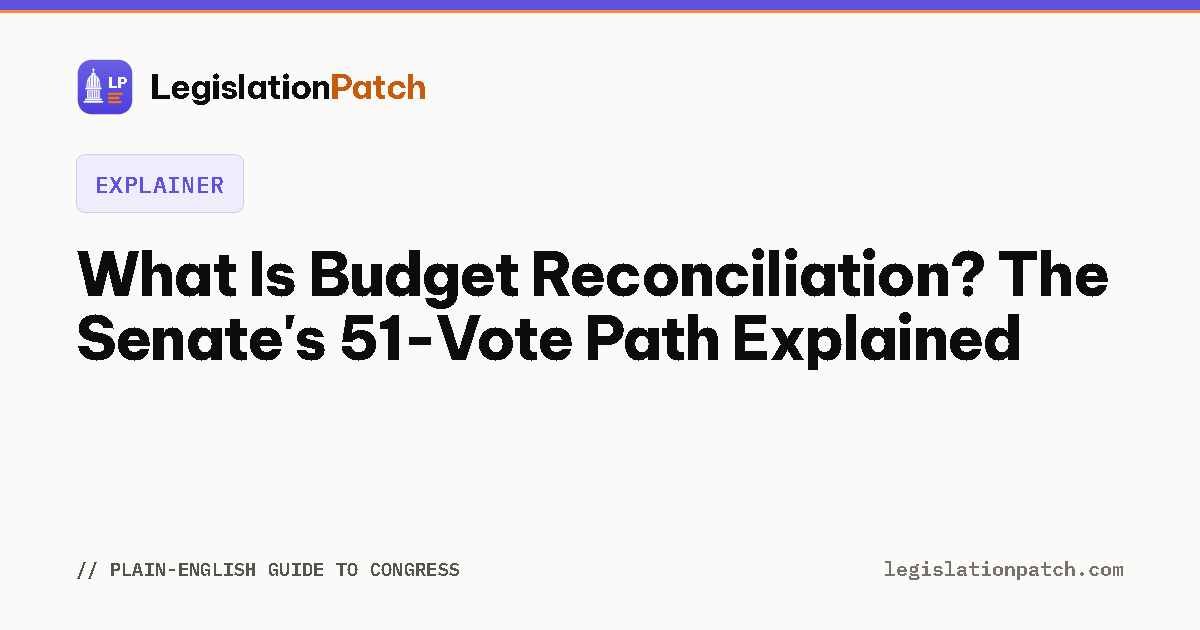
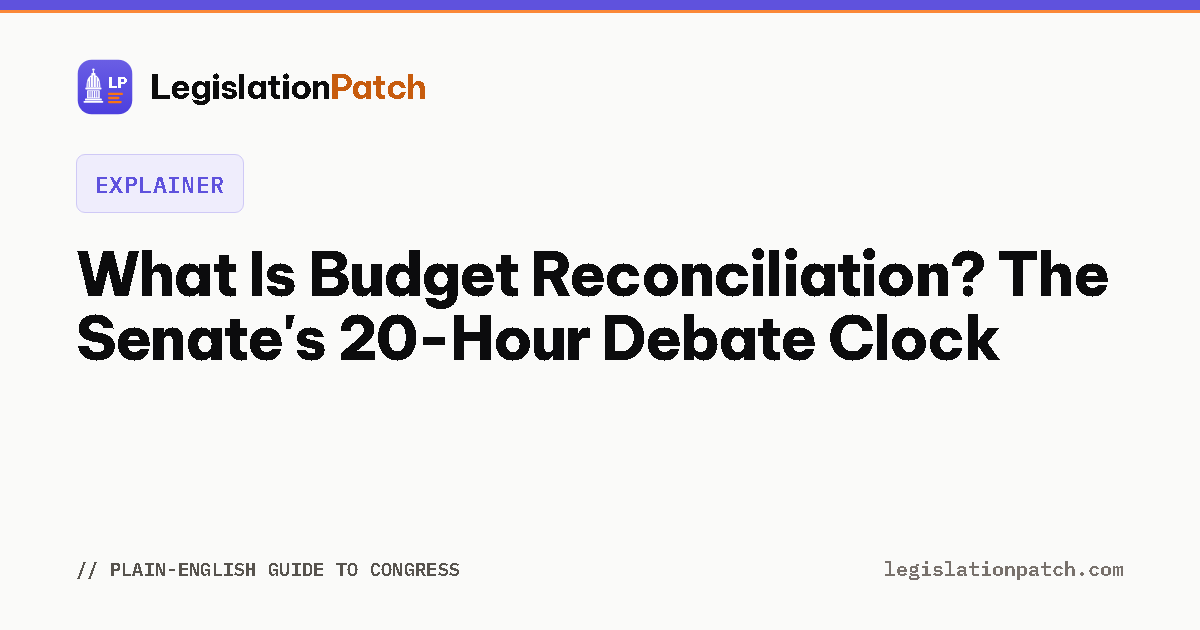
Refresh explainer: budget-reconciliation (64-claim ledger, 7 sources, 6 passes)

Changed region(s): [[0.2775, 0.4825, 0.8633, 0.573]]

diff --git a/articles/budget-reconciliation.html b/articles/budget-reconciliation.html
@@ -4,15 +4,15 @@
   <meta charset="UTF-8" />
   <meta http-equiv="Content-Security-Policy" content="default-src 'self'; script-src 'self' 'unsafe-inline'; style-src 'self' 'unsafe-inline' https://fonts.googleapis.com; font-src https://fonts.gstatic.com; img-src 'self' data: https://bioguide.congress.gov https://clerk.house.gov; connect-src 'self' https://ipapi.co https://api.zippopotam.us; object-src 'none'; base-uri 'self'; form-action 'self'; frame-src 'none'">
   <meta name="referrer" content="no-referrer"><meta name="viewport" content="width=device-width, initial-scale=1.0, viewport-fit=cover" />
-  <title>What Is Budget Reconciliation? The Senate's 51-Vote Path Explained</title>
-  <meta name="description" content="Budget reconciliation allows the Senate to pass certain fiscal legislation with 51 votes instead of 60, bypassing the filibuster. Here's how it works, what it can contain, and its key limits." />
+  <title>What Is Budget Reconciliation? The Senate's 20-Hour Debate Clock</title>
+  <meta name="description" content="Budget reconciliation limits Senate debate to 20 hours, so cloture is never needed to reach a final vote. How the directives work, what the Byrd rule bars, and which laws have used it." />
   <link rel="canonical" href="https://legislationpatch.com/articles/budget-reconciliation.html" />
-  <meta property="og:type" content="article" /><meta property="og:url" content="https://legislationpatch.com/articles/budget-reconciliation.html" /><meta property="og:title" content="What Is Budget Reconciliation? The 51-Vote Path Explained" /><meta property="og:description" content="Budget reconciliation lets the Senate pass fiscal legislation with 51 votes instead of 60, bypassing the filibuster. Here's how it works and what its limits are." /><meta property="og:image" content="https://legislationpatch.com/og/articles/budget-reconciliation.png" /><meta name="twitter:card" content="summary_large_image" /><meta name="twitter:image" content="https://legislationpatch.com/og/articles/budget-reconciliation.png" />
+  <meta property="og:type" content="article" /><meta property="og:url" content="https://legislationpatch.com/articles/budget-reconciliation.html" /><meta property="og:title" content="What Is Budget Reconciliation? The Senate's 20-Hour Debate Clock" /><meta property="og:description" content="Reconciliation limits Senate debate to 20 hours, so cloture is never needed. How the directives work, what the Byrd rule bars, and which laws have used it." /><meta property="og:image" content="https://legislationpatch.com/og/articles/budget-reconciliation.png" /><meta name="twitter:card" content="summary_large_image" /><meta name="twitter:image" content="https://legislationpatch.com/og/articles/budget-reconciliation.png" />
   <script type="application/ld+json">
   {
     "@context": "https://schema.org",
     "@type": "Article",
-    "headline": "What Is Budget Reconciliation? The Senate's 51-Vote Path Explained",
+    "headline": "What Is Budget Reconciliation? The Senate's 20-Hour Debate Clock",
     "author": {
       "@id": "https://legislationpatch.com/author/james-shearn#person"
     },
@@ -20,7 +20,7 @@
       "@id": "https://legislationpatch.com/#organization"
     },
     "datePublished": "2026-05-08",
-    "dateModified": "2026-07-17",
+    "dateModified": "2026-09-01",
     "url": "https://legislationpatch.com/articles/budget-reconciliation.html",
     "image": "https://legislationpatch.com/og/articles/budget-reconciliation.png",
     "mainEntityOfPage": {
@@ -57,18 +57,37 @@
     "citation": [
       {
         "@type": "CreativeWork",
-        "name": "CRS: The Reconciliation Process — Frequently Asked Questions",
-        "url": "https://www.congress.gov/crs-product/R48444"
+        "name": "CRS Report R48444 — The Reconciliation Process: Frequently Asked Questions",
+        "url": "https://www.everycrsreport.com/reports/R48444.html"
       },
       {
         "@type": "CreativeWork",
-        "name": "2 U.S.C. 644 — The Byrd Rule",
+        "name": "CRS Report RL30862 — The Budget Reconciliation Process: The Senate's Byrd Rule",
+        "url": "https://www.everycrsreport.com/reports/RL30862.html"
+      },
+      {
+        "@type": "CreativeWork",
+        "name": "2 U.S.C. 641 — Reconciliation",
+        "url": "https://uscode.house.gov/view.xhtml?req=granuleid:USC-prelim-title2-section641&num=0&edition=prelim"
+      },
+      {
+        "@type": "CreativeWork",
+        "name": "2 U.S.C. 644 — Extraneous matter in reconciliation legislation",
         "url": "https://uscode.house.gov/view.xhtml?req=granuleid:USC-prelim-title2-section644&num=0&edition=prelim"
       },
       {
         "@type": "CreativeWork",
-        "name": "CBO: Reconciliation",
-        "url": "https://www.cbo.gov/topics/budget/reconciliation"
+        "name": "CRS Report RL30360 — Filibusters and Cloture in the Senate",
+        "url": "https://www.everycrsreport.com/reports/RL30360.html"
+      },
+      {
+        "@type": "CreativeWork",
+        "name": "The Constitution of the United States, official transcript (National Archives) — Article I, Section 3",
+        "url": "https://www.archives.gov/founding-docs/constitution-transcript"
+      },
+      {
+        "@type": "CreativeWork",
+        "name": "Congress.gov API record — complete public-law list for the 119th Congress (fetched 2026-08-31)"
       }
     ]
   }
@@ -88,32 +107,55 @@
       <nav class="article-breadcrumb" aria-label="Breadcrumb"><a href="../index.html">Home</a><span class="sep">/</span><a href="index.html">Articles</a><span class="sep">/</span>Budget Reconciliation</nav>
 
       <div class="topic-hub-link" style="margin:-4px 0 16px;font-size:0.85rem;opacity:0.85">Part of the topic hub: <a href="/topics/government-spending/">Government Spending &amp; the Budget, Explained</a></div>
-      <h1 class="article-title">What Is Budget Reconciliation? The Senate's 51-Vote Path Explained</h1>
-      <div class="article-meta"><span>By <a href="https://legislationpatch.com/author/james-shearn" rel="author">James Shearn</a>, Editor</span><span>Published May 2026</span><span>Updated July 2026</span></div>
+      <h1 class="article-title">What Is Budget Reconciliation? The Senate's 20-Hour Debate Clock</h1>
+      <div class="article-meta"><span>By <a href="https://legislationpatch.com/author/james-shearn" rel="author">James Shearn</a>, Editor</span><span>Published May 2026</span><span>Updated September 2026</span></div>
       <div class="article-body">
-        <p>Budget reconciliation is a special congressional procedure that allows the Senate to pass certain fiscal legislation — bills affecting federal spending, revenues, or the debt limit — with a simple majority of 51 votes rather than the 60 votes normally needed to overcome a filibuster. It was created by the Congressional Budget Act of 1974 and has since been the vehicle for major tax, health-care, and deficit-reduction laws — the specific examples are listed at the end of this article.</p>
-        <p>It's not a loophole or a trick. It is a procedural mechanism that makes budget-related legislation easier to pass. It also has limits, and understanding them explains why not every policy can move through reconciliation.</p>
+        <p>Budget reconciliation is an expedited procedure for legislation that changes spending, revenue or the debt limit, made available under Section 310 of the Congressional Budget Act of 1974. The Congressional Research Service identifies what makes it different: "A distinctive feature of reconciliation is that debate time in the Senate is limited, which means cloture (and its requisite three-fifths majority vote) is not necessary to reach a vote on final passage." That is the whole mechanism — not a lower vote threshold, but a debate clock that runs out on its own, so there is nothing for a <a href="senate-filibuster.html">filibuster</a> to prolong and no <a href="cloture-60-vote.html">cloture vote</a> to win.</p>
+        <p>Passage itself takes what ordinary passage takes. As CRS puts it, "The votes of only a majority of Senators present and voting are needed to pass a bill on the floor," and under Article I of the Constitution the Vice President "shall be President of the Senate, but shall have no Vote, unless they be equally divided."</p>
+        <p>It is used often and for large things. CRS records that reconciliation "has been used to reform entitlement programs (1996 and 2025), create new ones (2010), balance the federal budget (1997), and enact broad-based tax reform (2001, 2003, 2017, and 2025)."</p>
         <h2>How Reconciliation Works</h2>
-        <p>Reconciliation begins with the budget resolution — the annual plan Congress passes (or is supposed to pass) setting top-line spending and revenue targets. The budget resolution can include "reconciliation instructions" — directives to one or more committees to produce legislation that changes spending or revenues by a specified amount within a specified time frame.</p>
-        <p>Once the relevant committees produce that legislation, it's packaged into a reconciliation bill and brought to the Senate floor. On the Senate floor, reconciliation bills cannot be filibustered. Debate is limited to 20 hours total (10 for each chamber in conference, or 20 for the Senate on a House-passed bill). After debate, senators can offer unlimited amendments during a process called "vote-a-rama" — hours or days of rapid amendment votes on the Senate floor — before final passage.</p>
-        <p>Because a simple majority (51 votes, or 50 plus the Vice President) is all that's required, reconciliation is the primary vehicle for major fiscal legislation when one party doesn't control 60 Senate seats.</p>
-        <h2>The Byrd Rule: What Reconciliation Can't Contain</h2>
-        <p>Named for former Senator Robert Byrd of West Virginia, the Byrd Rule (2 U.S.C. 644) prohibits including provisions in reconciliation bills that are "extraneous" to the budgetary purpose. A provision is extraneous — and can be stripped out — if it meets any of six criteria, the most commonly invoked being:</p>
-        <p><strong>The provision has no budgetary effect, or its budgetary effect is merely incidental to its non-budgetary purpose.</strong> This is the key test. A policy change that happens to save $10 million but whose primary effect is regulatory can be ruled extraneous. A policy change that saves $10 billion through a direct change to spending formulas is fine.</p>
-        <p><strong>The provision changes Social Security.</strong> The Byrd Rule categorically bars reconciliation from touching Social Security, the OASDI trust funds, or the Social Security Act — a protection written into the 1985 Gramm-Rudman-Hollings Act.</p>
-        <p>Any senator can raise a "point of order" against a provision they believe violates the Byrd Rule. The Senate Parliamentarian — an unelected procedural expert who advises the presiding officer — issues an opinion on whether the point of order should be sustained. If sustained, the provision is removed unless 60 senators vote to waive the rule.</p>
-        <p>The Parliamentarian's rulings on the Byrd Rule have significant consequences. In 2021, the Senate Parliamentarian ruled that a federal minimum wage increase violated the Byrd Rule, removing it from a reconciliation bill despite majority Senate support. The ruling forced the majority to find other vehicles — which they ultimately couldn't.</p>
-        <h2>One Reconciliation Bill Per Budget Resolution</h2>
-        <p>The budget resolution can instruct committees to produce reconciliation legislation, but the traditional interpretation is that only one reconciliation bill is permitted per budget resolution. A Congress that wants to use reconciliation twice in a year must pass two separate budget resolutions, each with its own reconciliation instructions. In practice, this limits how often reconciliation can be used — passing a budget resolution itself requires floor time and agreement, and the political capital spent on one reconciliation bill often precludes a second.</p>
+        <p>It begins with the budget resolution. "Reconciliation directives (also known as reconciliation instructions) are a necessary step if Congress seeks to exercise the expedited procedures enumerated in the Budget Act," CRS writes, and there are three kinds: "to change laws providing for spending, to change laws providing for revenues, and to change the public debt limit." CRS notes one wrinkle: "A fourth instruction—to change the deficit—is interpreted as a combination of both revenue and spending instructions."</p>
+        <p>The statute sets out what happens next. Under 2 U.S.C. 641(b), where more than one committee is instructed, each "shall promptly make such determination and recommendations and submit such recommendations to the Committee on the Budget of its House, which, upon receiving all such recommendations, shall report to its House reconciliation legislation carrying out all such recommendations without any substantive revision."</p>
+        <h2>On the Floor</h2>
+        <p>The Senate debate limit is in the statute itself. 2 U.S.C. 641(e)(2) provides that "Debate in the Senate on any reconciliation bill reported under subsection (b), and all amendments thereto and debatable motions and appeals in connection therewith, shall be limited to not more than 20 hours." There is no House figure in that provision and no per-chamber split. Inside the 20 hours, CRS records two sub-limits: "Debate time on any first-degree amendment is limited to no more than two hours equally divided between the mover and the manager of the reconciliation bill. Debate on any second-degree amendment, debatable motion, or appeal is limited to one hour." They are sub-limits rather than additions: "Time spent in a quorum call during consideration of an amendment counts against this limit. All time spent in discussion on the floor during this period (on the reconciliation bill or on any amendment, motion, or appeal) counts toward the 20-hour debate limit. Time spent conducting votes does not." A separate clock governs resolving differences with the House: "In the Senate, Section 305(c) limits debate on a conference report to 10 hours, equally divided, and debate on any motion or appeal is limited to one hour."</p>
+        <p>The House does it differently: "In the House, consideration is typically structured by a special rule reported from the <a href="house-rules-committee.html">House Rules Committee</a>, which sets the terms for debate and may permit specified amendments to be offered from the floor."</p>
+        <p>Amendments in the Senate are constrained too. "Amendments to reconciliation legislation must be germane," because "Section 310(e) of the Budget Act prohibits consideration in the Senate of non-germane amendments to reconciliation legislation, thereby limiting the ability of Senators to expand the scope of changes recommended by committees through amendments offered on the Senate floor."</p>
+        <p>Then comes the part everyone has seen a clip of. "Section 305 of the Budget Act ... specifies a limit on debate but not consideration," so "even after debate time has expired, Senators may continue to offer and decide additional amendments, but they cannot debate them." CRS calls the resulting stretch a "vote-arama": "During a vote-arama, the Senate typically uses unanimous consent agreements to make tranches of amendments in order and to set the parameters for their consideration—usually two minutes to identify and briefly summarize the amendment, evenly divided between sides, followed by a vote."</p>
+        <h2>What Reconciliation Cannot Contain</h2>
+        <p>The controlling section of the U.S. Code is headed "Extraneous matter in reconciliation legislation" (2 U.S.C. 644). CRS names it: "Section 313, also known as the Byrd rule," after Senator Robert C. Byrd, its principal sponsor. "The Byrd rule establishes six tests used to identify extraneous matter." A provision is extraneous in the Senate if:</p>
+        <ol>
+          <li>"It does not produce a change in outlays or revenues, including changes resulting from a change in the 'terms and conditions' under which outlays are made or revenues are collected (e.g., a change in the definition of qualified beneficiaries or a change in the definition of a person or entity subject to a tax).";</li>
+          <li>"It produces an increase in outlays or a decrease in revenues when the instructed committee is not in compliance with its reconciliation directives.";</li>
+          <li>"It is outside of the jurisdiction of the committee that submitted the title or provision for inclusion in the reconciliation measure.";</li>
+          <li>"It produces a change in outlays or revenues that is merely incidental to the non-budgetary components of the provision.";</li>
+          <li>"It would increase the deficit in any fiscal year beyond the years covered by the reconciliation measure."; or</li>
+          <li>"It would amend Title II of the Social Security Act (the Old-Age, Survivors, and Disability Insurance program)".</li>
+        </ol>
+        <p>The remedy is narrow rather than fatal to the bill: "A point of order made under the Byrd rule is surgical: If sustained, the offending matter is stricken from the text, but the rest of the measure remains before the Senate."</p>
+        <p>Waiving it is hard. "In the Senate, a motion to waive any of these points of order requires the affirmative vote of three-fifths of Senators, duly chosen and sworn (60 Members in a Senate with no more than one vacancy)."</p>
+        <p>The rule is younger than reconciliation. CRS records that "In 1985 and 1986, the Senate adopted the Byrd rule (named after its principal sponsor, Senator Robert C. Byrd) on a temporary basis as a means of curbing these practices," and that "In 1990, the Byrd rule was incorporated into the Congressional Budget Act of 1974 as Section 313 and made permanent (2 U.S.C. 644)."</p>
+        <h2>Social Security Has Two Separate Protections</h2>
+        <p>The first is not part of the Byrd rule at all. 2 U.S.C. 641(g) provides that "it shall not be in order in the Senate or the House of Representatives to consider any reconciliation bill or reconciliation resolution ... or any amendment thereto or conference report thereon, that contains recommendations with respect to the old-age, survivors, and disability insurance program established under title II of the Social Security Act." It binds both chambers and reaches amendments and conference reports as well as the bill, and CRS describes its effect as blunt: "This point of order, if raised and sustained, immediately ends consideration of a reconciliation bill by sending it back to committee."</p>
+        <p>The second is the sixth Byrd test, which reaches the same subject by cross-reference: under 2 U.S.C. 644(b)(1)(F), "a provision shall be considered extraneous if it violates section 641(g) of this title." That one applies in the Senate only, and strikes the provision rather than the bill.</p>
+        <h2>The Senate Parliamentarian</h2>
+        <p>"As the Senate's expert on the chamber's rules, precedents, and practices, the Senate Parliamentarian advises the presiding officer on the floor regarding the Senate's rules, including the Byrd rule." Most of the work happens before the floor: "In recent practice, reconciliation legislation to be considered in the Senate has received preemptive scrutiny by the Senate Parliamentarian in conjunction with Senate staff." CRS notes that "This tradition, known as a 'Byrd bath' or 'Byrd scrub,' allows for the identification of legislative text that would violate the Byrd rule in advance of its consideration on the floor."</p>
+        <p>The 2021 minimum-wage episode is in the record as a floor event, not a pre-floor ruling. CRS RL30862's table of actions taken under the rule lists, for the American Rescue Plan Act of 2021, a point of order against Sanders Amendment No. 972, "To provide for increases in the Federal minimum wage," on the ground that its budgetary changes were "merely incidental to non-budgetary components." The motion to waive was "Rejected, 42-58" on March 5, 2021, the point of order was "Sustained," and the amendment fell.</p>
+        <h2>How Many Reconciliation Bills Per Budget Resolution</h2>
+        <p>Not one. CRS states the limit precisely: "No more than one reconciliation bill may include provisions in response to each type of instruction in one budget resolution, for a maximum of three reconciliation bills." Because there are three types of directive — spending, revenue and the debt limit — three is the ceiling. What usually happens is the opposite of splitting: "In practice, Congress has generally combined the reconciliation submissions from every committee into a single, omnibus reconciliation measure."</p>
         <h2>What Has Passed Through Reconciliation</h2>
-        <p>Laws enacted through reconciliation include the Tax Cuts and Jobs Act of 2017 (Pub. L. 115-97), the Affordable Care Act's associated reconciliation measure in 2010 (Pub. L. 111-152), the Inflation Reduction Act of 2022 (Pub. L. 117-169), and multiple deficit-reduction bills in the 1990s.</p>
-        <p>In each case, the majority chose reconciliation specifically because 60 Senate votes weren't available for the legislation in question, and because the core content of the bill — changes to tax rates, spending levels, or health care payment formulas — was sufficiently fiscal to survive the Byrd Rule.</p>
+        <p>"Since 1980, Congress has considered 29 reconciliation bills and enacted 24" — four were vetoed and one did not pass the Senate.</p>
+        <p>Several of the best-known have no short title at all, because the Byrd rule took it. Of the FY2018 law, CRS writes: "The short title for this measure was struck by a point of order made pursuant to the Senate's Byrd rule. As a result, the official title of the measure as enacted is 'An Act to provide for reconciliation pursuant to titles II and V of the concurrent resolution on the budget for fiscal year 2018,' but the bill is sometimes referred to as the Tax Cut and Jobs Act." The same happened to P.L. 117-169, where "the official title of the measure as enacted is 'An Act to provide for reconciliation pursuant to title II of S.Con.Res. 14,' but the bill is sometimes referred to as the Inflation Reduction Act or Build Back Better Act." And to the most recent one: "The short title for this measure was struck by a point of order made pursuant to the Senate's Byrd rule prior to its adoption. As a result, the official title of the measure as enacted is 'An Act to provide for reconciliation pursuant to title II of H. Con. Res. 14,' but the bill is sometimes referred to as the One Big Beautiful Bill Act." The Congress.gov record dates its enactment to July 4, 2025.</p>
+        <p>One in that group kept its name. CRS lists the "Health Care and Education Reconciliation Act of 2010 (P.L. 111-152)" by its short title.</p>
         <div class="article-source-box">
           <div class="article-source-box-label">Key Sources</div>
           <ul>
-            <li><a href="https://www.congress.gov/crs-product/R48444" target="_blank" rel="noopener">CRS: The Reconciliation Process — Frequently Asked Questions</a></li>
-            <li><a href="https://uscode.house.gov/view.xhtml?req=granuleid:USC-prelim-title2-section644&num=0&edition=prelim" target="_blank" rel="noopener">2 U.S.C. 644 — The Byrd Rule</a></li>
-            <li><a href="https://www.cbo.gov/topics/budget/reconciliation" target="_blank" rel="noopener">CBO: Reconciliation</a></li>
+            <li><a href="https://www.everycrsreport.com/reports/R48444.html" target="_blank" rel="noopener">CRS Report R48444 — The Reconciliation Process: Frequently Asked Questions</a></li>
+            <li><a href="https://www.everycrsreport.com/reports/RL30862.html" target="_blank" rel="noopener">CRS Report RL30862 — The Budget Reconciliation Process: The Senate's Byrd Rule</a></li>
+            <li><a href="https://uscode.house.gov/view.xhtml?req=granuleid:USC-prelim-title2-section641&num=0&edition=prelim" target="_blank" rel="noopener">2 U.S.C. 641 — Reconciliation</a></li>
+            <li><a href="https://uscode.house.gov/view.xhtml?req=granuleid:USC-prelim-title2-section644&num=0&edition=prelim" target="_blank" rel="noopener">2 U.S.C. 644 — Extraneous matter in reconciliation legislation</a></li>
+            <li><a href="https://www.everycrsreport.com/reports/RL30360.html" target="_blank" rel="noopener">CRS Report RL30360 — Filibusters and Cloture in the Senate</a></li>
+            <li><a href="https://www.archives.gov/founding-docs/constitution-transcript" target="_blank" rel="noopener">The Constitution of the United States (transcript) — Article I, Section 3</a></li>
+            <li>Congress.gov API record — complete public-law list for the 119th Congress (fetched 2026-08-31; stored as <code>data/ref-text/record-congress-119-public-laws.txt</code>)</li>
           </ul>
         </div>
         <p class="article-disclosure" style="margin-top:2rem;padding-top:1rem;border-top:1px solid var(--border, rgba(128,128,128,0.25));font-size:0.85rem;opacity:0.8">Drafted from primary source documents by LegislationPatch's automated research pipeline, then reviewed, verified, and edited by <a href="https://legislationpatch.com/author/james-shearn" rel="author">James Shearn</a>, Editor. Every figure and citation is checked against the official text before publication. See our <a href="/editorial-standards.html">editorial standards and AI disclosure</a>.</p>

diff --git a/author/james-shearn/index.html b/author/james-shearn/index.html
@@ -196,6 +196,10 @@
             <span class="section-label" style="display:block;font-size:0.78rem;opacity:0.7">Updated September 1, 2026</span>
           </li>
           <li style="margin-bottom:0.6rem">
+            <a href="/articles/budget-reconciliation.html">What Is Budget Reconciliation? The Senate's 20-Hour Debate Clock</a>
+            <span class="section-label" style="display:block;font-size:0.78rem;opacity:0.7">Updated September 1, 2026</span>
+          </li>
+          <li style="margin-bottom:0.6rem">
             <a href="/articles/cloture-60-vote.html">What Is Cloture? The Senate's 60-Vote Threshold Explained</a>
             <span class="section-label" style="display:block;font-size:0.78rem;opacity:0.7">Updated September 1, 2026</span>
           </li>
@@ -233,10 +237,6 @@
           </li>
           <li style="margin-bottom:0.6rem">
             <a href="/articles/appropriations-act-2026.html">The 2026 Consolidated Appropriations Act: What Actually Changed</a>
-            <span class="section-label" style="display:block;font-size:0.78rem;opacity:0.7">Updated August 31, 2026</span>
-          </li>
-          <li style="margin-bottom:0.6rem">
-            <a href="/articles/legislative-stages.html">Understanding Legislative Stages: What Each Step Means for Passage</a>
             <span class="section-label" style="display:block;font-size:0.78rem;opacity:0.7">Updated August 31, 2026</span>
           </li>
     </ul>

diff --git a/articles/index.html b/articles/index.html
@@ -249,8 +249,8 @@
         <p class="article-card-summary">A government shutdown follows a funding gap. What the Antideficiency Act requires, which functions are excepted rather than essential, who decides what stops, and how long the gaps have actually lasted.</p>
       </div>
       <div class="article-card">
-        <div class="article-card-label">Explainer</div>
-        <a href="budget-reconciliation.html" class="article-card-title">What Is Budget Reconciliation? The Senate's 51-Vote Path Explained</a>
+        <div class="article-card-label">Explainer &middot; Updated September 2026</div>
+        <a href="budget-reconciliation.html" class="article-card-title">What Is Budget Reconciliation? The Senate's 20-Hour Debate Clock</a>
         <p class="article-card-summary">Reconciliation limits Senate debate time, so cloture is never needed to reach a final vote. How the directives work, what the Byrd rule bars, and which laws lost their short titles to it.</p>
       </div>
       <div class="article-card">
